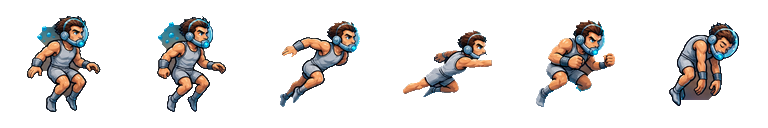
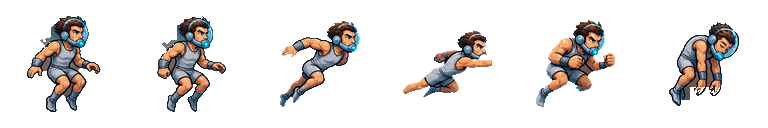
v0.19: swimmer sprites for 11 forms (team-tinted kits; Synthari keep their own colors), rest fall back to drawn swimmers until clean art arrives
Claude-Session: https://claude.ai/code/session_011zzuXWih7xTcWc8HkujY6v

Changed region(s): [[0.1875, 0.1875, 0.25, 0.3438], [0.875, 0.6562, 0.9375, 0.7812], [0.0312, 0.2188, 0.0938, 0.3125]]

diff --git a/index.html b/index.html
@@ -1082,14 +1082,17 @@ loadArt('ball','art/ball.png');loadArt('ballGlow','art/ball_glow.png');loadArt('
 const CREST_FILES={riptide:'lakewood_riptide',currents:'mile_high_currents',breakers:'boulder_breakers',anglers:'aurora_anglers',divers:'durango_divers',undertow:'pikes_peak_undertow'};
 for(const k in CREST_FILES)loadArt('crest_'+k,'art/crest_'+CREST_FILES[k]+'.png');
 function drawCrest(key,x,y,size,a=1){const im=ART['crest_'+key];if(!im)return false;ctx.save();ctx.globalAlpha*=a;ctx.imageSmoothingQuality='high';ctx.drawImage(im,x-size/2,y-size/2,size,size);ctx.restore();return true;}
-loadArt('swim_Human','art/swimmer_human.png');loadArt('swimMask_Human','art/swimmer_human_jersey.png');loadArt('jersey','art/portraits_jersey.png');
+// swimmer sprites by form (art/swimmer_<slug>.png + _jersey mask); forms without one fall back to the drawn swimmer
+const SWIM_SLUGS=['human','human_f','synthari_m','synthari_f','octarine','mantae','cartilagin','crustal','tree_frog','angler','trench'];
+const swimSlug=p=>{const f=p.form||(p.race==='synthari'?'Synthari':'Human');if(f==='Human')return p.sex==='f'&&SWIM_SLUGS.includes('human_f')?'human_f':'human';if(f==='Synthari')return 'synthari_'+(p.sex==='f'?'f':'m');return f.toLowerCase().replace(/ /g,'_');};
+SWIM_SLUGS.forEach(k=>{loadArt('swim_'+k,'art/swimmer_'+k+'.png');loadArt('swimMask_'+k,'art/swimmer_'+k+'_jersey.png');});loadArt('jersey','art/portraits_jersey.png');
 const PORTRAIT_KEYS=['Human_m','Human_f','Synthari_m','Synthari_f','Octarine','Mantae','Cartilagin','Crustal','Angler','Trench','Vanguard','Anaconda','Piranha','Amphibian','River Predator','Axolotl','Dragonfly','River Otter','Tree Frog'],PCELL=288,PCOLS=5,portraitCache={};
 // Element icon for a move id or element name ('whirl' shares the swirl icon)
 function iconOf(idOrEl){let el=ELEM[idOrEl]||idOrEl;if(el==='whirl')el='swirl';return ART['icon_'+el]||null;}
 function drawIcon(idOrEl,x,y,size){const im=iconOf(idOrEl);if(!im)return false;ctx.save();ctx.imageSmoothingQuality='high';ctx.drawImage(im,x-size/2,y-size/2,size,size);ctx.restore();return true;}
 // Tinted copy of a race form's 6-frame swimmer strip (jersey + shorts take the team color); null if that form has no sprite yet.
 const swimCache={};
-function swimmerFor(p,J){const form=p.form||'Human',im=ART['swim_'+form],mk=ART['swimMask_'+form];if(!im||!mk)return null;const ck=form+J;if(swimCache[ck])return swimCache[ck];
+function swimmerFor(p,J){const form=swimSlug(p),im=ART['swim_'+form],mk=ART['swimMask_'+form];if(!im||!mk)return null;const ck=form+J;if(swimCache[ck])return swimCache[ck];
   const c=document.createElement('canvas');c.width=768;c.height=128;const g=c.getContext('2d');g.drawImage(im,0,0);
   const t=document.createElement('canvas');t.width=768;t.height=128;const h=t.getContext('2d');h.drawImage(mk,0,0);
   const d=h.getImageData(0,0,768,128),a=d.data;for(let k=0;k<a.length;k+=4)a[k+3]=a[k];h.putImageData(d,0,0);
@@ -1602,7 +1605,7 @@ function drawTitle(){
   btn(92,206,70,18,'SCENES: '+sc,()=>{SAVE.scenes=SAVE.scenes==='quick'?'full':'quick';persist();},{col:'#3a3f6a',size:5.2,sub:'move cutscenes',subsize:3.8,subc:'#cfe3ff'});
   btn(18,229,144,15,'PACE: '+(SAVE.pace<0.9?'CALM':'CLASSIC')+'  (tap to switch)',()=>{SAVE.pace=SAVE.pace<0.9?1:0.8;persist();},{col:'#3a3f6a',size:5.5});
   const n=(SAVE.news||[])[0];if(n){txt('LATEST',18,255,4.6,'#ffb36b','left',{stroke:false});wrapTxt(n.t,18,263,144,4.6,n.col||'#ffffff',2);}
-  txt('PROTOTYPE v0.18.1',CX,H-14,5.5,'#6f6aa8','center',{stroke:false});
+  txt('PROTOTYPE v0.19',CX,H-14,5.5,'#6f6aa8','center',{stroke:false});
 }
 function wrapTxt(s,x,y,w,size,col,maxLines=3,align='left'){ctx.font=size+'px '+FONT;const words=s.split(' ');let line='',n=0;
   for(const wd of words){const t=line?line+' '+wd:wd;if(ctx.measureText(t).width>w&&line){txt(line,x,y+n*size*1.35,size,col,align,{stroke:false});n++;line=wd;if(n>=maxLines)return n;}else line=t;}

diff --git a/sw.js b/sw.js
@@ -1,7 +1,7 @@
 // Bump VERSION on every release so phones pick up the new build.
-const VERSION = 'v23';
+const VERSION = 'v24';
 const CACHE = 'sphere-league-' + VERSION;
-const CORE = ['./', './index.html', './manifest.webmanifest', './icons/icon-192.png', './icons/icon-512.png', './art/ball.png', './art/ball_glow.png', './art/sphere_interior.jpg', './art/sphere_backdrop.jpg', './art/portraits.jpg', './art/portraits_jersey.png', './art/swimmer_human.png', './art/swimmer_human_jersey.png', './art/icon_poison.png', './art/icon_sleep.png', './art/icon_hex.png', './art/icon_fire.png', './art/icon_swirl.png', './art/icon_ice.png', './art/icon_mirage.png', './art/icon_anchor.png', './art/icon_drain.png', './art/icon_shield.png', './art/crest_lakewood_riptide.png', './art/crest_mile_high_currents.png', './art/crest_boulder_breakers.png', './art/crest_aurora_anglers.png', './art/crest_durango_divers.png', './art/crest_pikes_peak_undertow.png'];
+const CORE = ['./', './index.html', './manifest.webmanifest', './icons/icon-192.png', './icons/icon-512.png', './art/ball.png', './art/ball_glow.png', './art/sphere_interior.jpg', './art/sphere_backdrop.jpg', './art/portraits.jpg', './art/portraits_jersey.png', './art/swimmer_human.png', './art/swimmer_human_jersey.png', './art/swimmer_human_f.png', './art/swimmer_human_f_jersey.png', './art/swimmer_synthari_m.png', './art/swimmer_synthari_m_jersey.png', './art/swimmer_synthari_f.png', './art/swimmer_synthari_f_jersey.png', './art/swimmer_octarine.png', './art/swimmer_octarine_jersey.png', './art/swimmer_mantae.png', './art/swimmer_mantae_jersey.png', './art/swimmer_cartilagin.png', './art/swimmer_cartilagin_jersey.png', './art/swimmer_crustal.png', './art/swimmer_crustal_jersey.png', './art/swimmer_tree_frog.png', './art/swimmer_tree_frog_jersey.png', './art/swimmer_angler.png', './art/swimmer_angler_jersey.png', './art/swimmer_trench.png', './art/swimmer_trench_jersey.png', './art/icon_poison.png', './art/icon_sleep.png', './art/icon_hex.png', './art/icon_fire.png', './art/icon_swirl.png', './art/icon_ice.png', './art/icon_mirage.png', './art/icon_anchor.png', './art/icon_drain.png', './art/icon_shield.png', './art/crest_lakewood_riptide.png', './art/crest_mile_high_currents.png', './art/crest_boulder_breakers.png', './art/crest_aurora_anglers.png', './art/crest_durango_divers.png', './art/crest_pikes_peak_undertow.png'];
 
 self.addEventListener('install', e => {
   e.waitUntil(caches.open(CACHE).then(c => c.addAll(CORE)));
